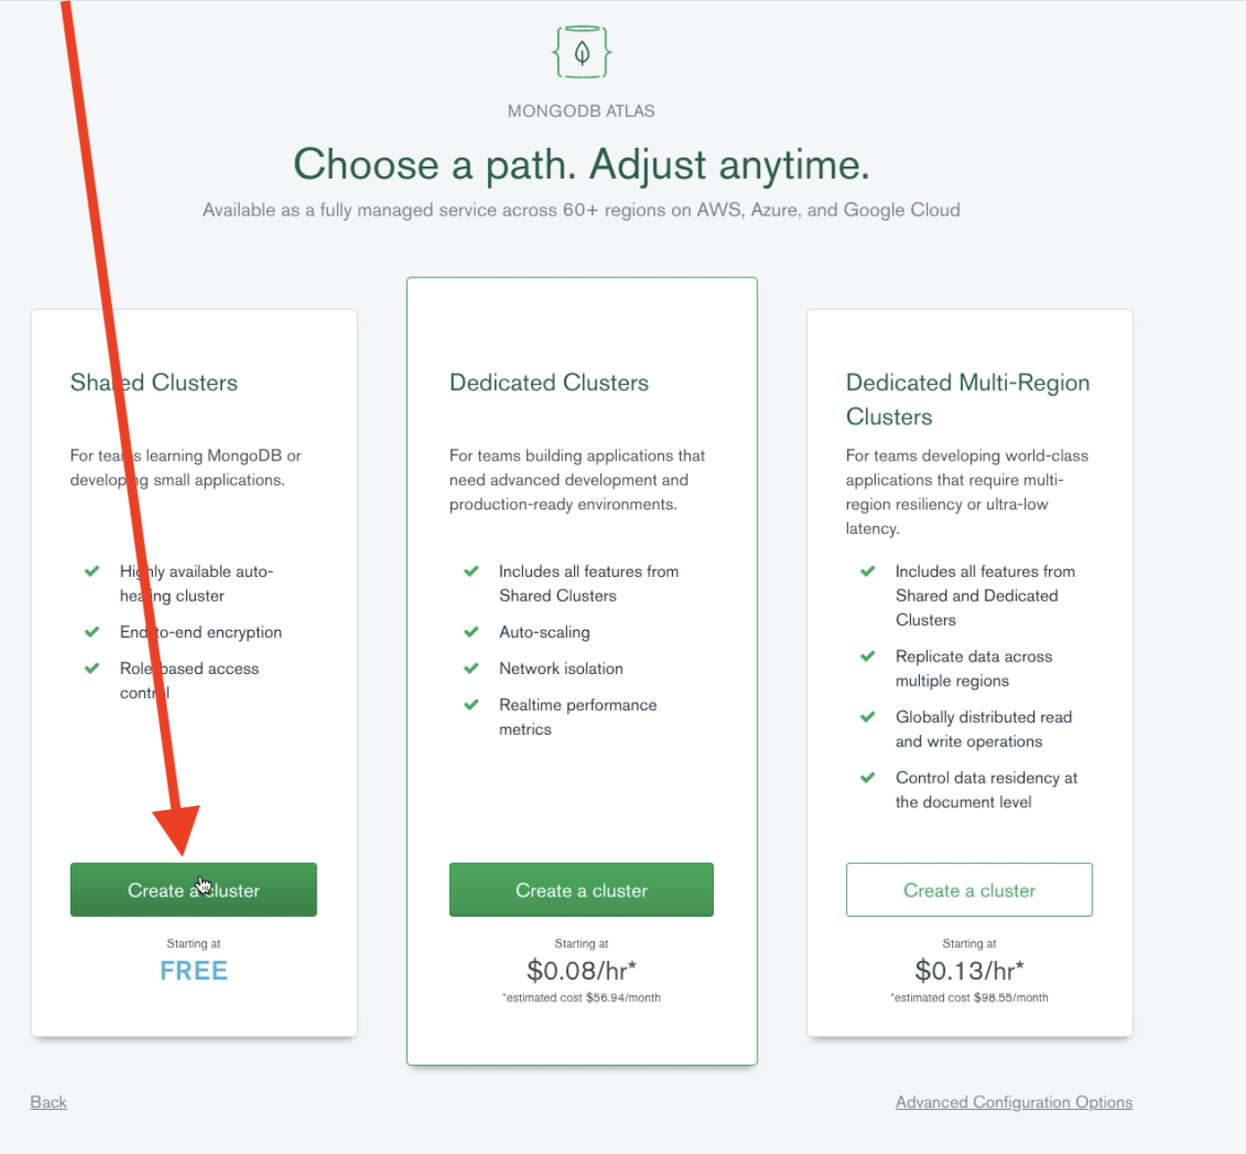
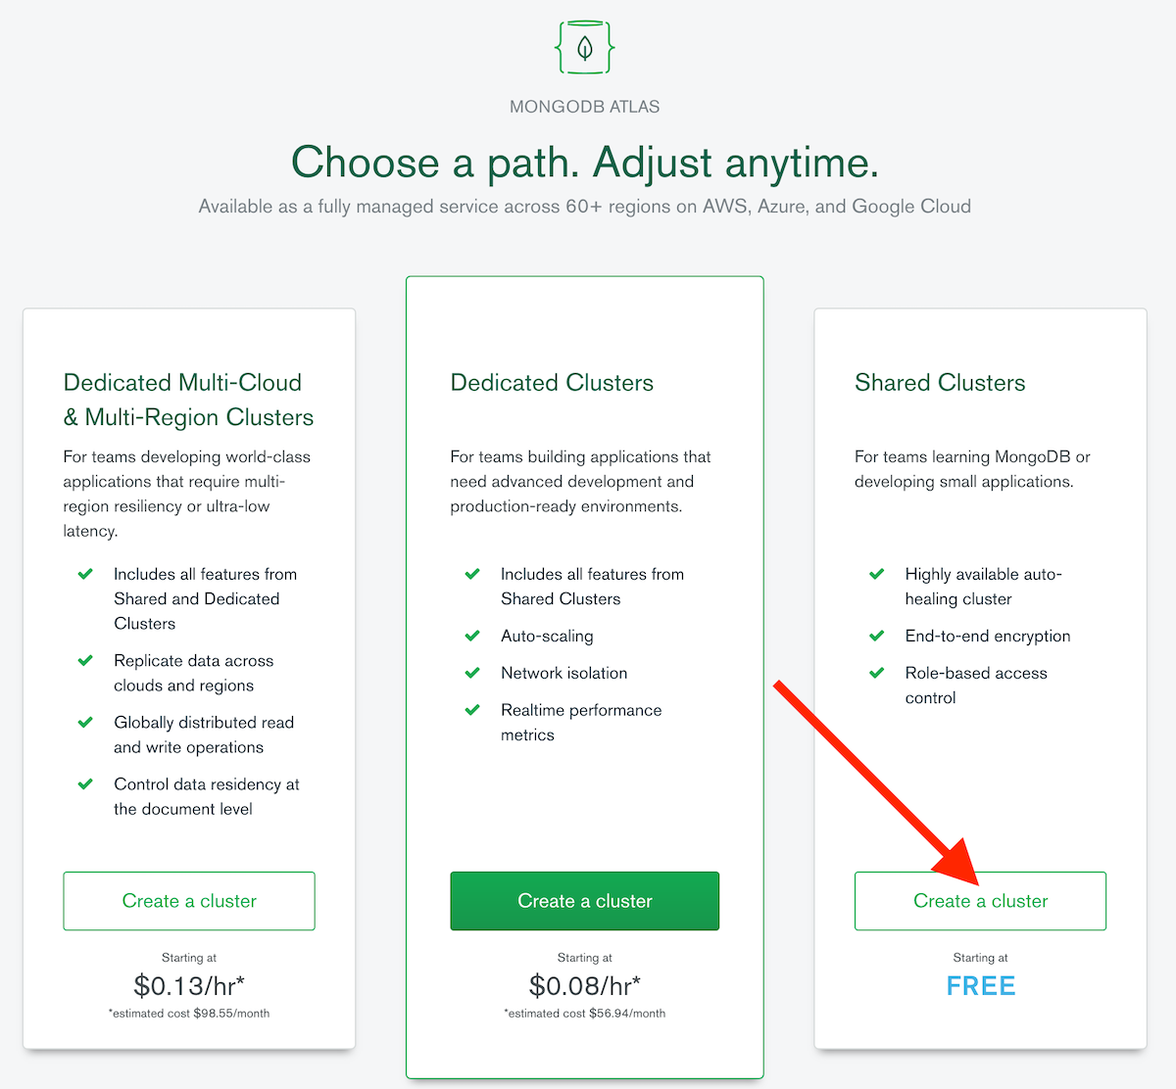
Update setup instructions (#126)
* Update cluster creation instructions

* update: make sure the users copy the template

* fix styling for tripple tick code segments

* update: make code/bash examples more visible

* update: format mongodb shell commands

* update: small visibility fixes

diff --git a/_sass/custom/custom.scss b/_sass/custom/custom.scss
@@ -1,3 +1,19 @@
-.highlight {
+.background {
     background-color:rgba(0, 0, 0, 0.0470588);
+}
+
+// tripple-tick code examples "```bash"
+li [class^="language-"].highlighter-rouge {
+    margin-bottom: 1.5em;
+}
+
+// quotes ">"
+blockquote {
+    background: #f9f9f9;
+    border-left: 10px solid #ccc;
+    margin: 1.5em 10px;
+    padding: 0.5em 10px;
+}
+blockquote p {
+    display: inline;
 }

diff --git a/build/index.html b/build/index.html
@@ -21,7 +21,8 @@ Prerequisites:
 
 Throughout this guide, you will be keeping track of a lot of information. So the first step is to copy and paste the template below into a scratch pad, to keep track of it all.<BR><BR>
 
-TEMPLATE TO COPY AND PASTE:<BR>
+<h3 id="template">TEMPLATE TO COPY AND PASTE</h3>
+
 Project Name:<BR>
 Atlas Cluster Name:<BR>
 Atlas Cluster Admin username:<BR>

diff --git a/_posts/build_fdn/2020-06-09-Data-Import.md b/_posts/build_fdn/2020-06-09-Data-Import.md
@@ -9,16 +9,19 @@ site: build
 Now that you've created your Atlas database, import the sample dataset using the `mongorestore` commandline utility:
 
 1. Get the sample data
-   1.  Get the code from <A HREF="https://github.com/WildAid/o-fish-realm" target="_blank">https://github.com/WildAid/o-fish-realm</A><BR>
-   `git clone https://github.com/WildAid/o-fish-realm.git`<BR>OR<BR><A HREF="https://github.com/WildAid/o-fish-realm/archive/main.zip">Download and extract the code</A><BR><BR>
-   1. Go into the o-fish-realm directory, "o-fish-realm" if you did a git clone in the previous step, or "o-fish-realm-main" if you downloaded and extracted the code. The directory should have at least these 3 items:<BR>
-`README.md WildAidDemo WildAidSampleBackup`<BR>
 
+   1. Get the code from <A HREF="https://github.com/WildAid/o-fish-realm" target="_blank">https://github.com/WildAid/o-fish-realm</A>
+   ```bash
+   git clone https://github.com/WildAid/o-fish-realm.git
+   ```
+   OR<BR><A HREF="https://github.com/WildAid/o-fish-realm/archive/main.zip">Download and extract the code</A><BR><BR>
+   1. Go into the o-fish-realm directory, "o-fish-realm" if you did a git clone in the previous step, or "o-fish-realm-main" if you downloaded and extracted the code. The directory should have at least these 3 items: **README.md**, **WildAidDemo**, and **WildAidSampleBackup**.
+   
    1. Note the path to the directory WildAidSampleBackup. Put it in the "Path to sample data" section of the template. <BR>
 Example: `/Users/sheeri/o-fish-realm/WildAidSampleBackup`<BR><BR>
-   1. Note the path to the directory WildAidDemo, and put it in the "Path to Realm code" section of the template.<BR>
-Example: `/Users/sheeri/o-fish-realm/WildAidDemo`<BR><BR>
-
+1. Note the path to the directory WildAidDemo, and put it in the "Path to Realm code" section of the template.<BR>
+   Example: `/Users/sheeri/o-fish-realm/WildAidDemo`<BR><BR>
+   
 1. Get connection string
    1. Click CONNECT in the cluster itself (or as previously on the view that shows you all the clusters for the project):
 <img src="/assets/images/CONNECT.png" style="border:1px solid black" width="100%"><BR><BR>
@@ -29,12 +32,24 @@ Example: `/Users/sheeri/o-fish-realm/WildAidDemo`<BR><BR>
    1. Click "Close"<BR><BR>
    1. Paste the connection string into the "Atlas Cluster connection string" in your template.<BR><BR>
 
-1. In a terminal window, use the mongorestore utility to import the data you got in the first step. use the `mongorestore` utility and the "Path to sample data", and the "Atlas Cluster connection string". Modify the connection string - just after `mongodb+srv://` you should put in the "Atlas Cluster Admin username" from the template, followed by @ and then the rest of the mongodb+srv link. The whole string, replace what's in all capital letters:<BR>
-   - `mongorestore --drop --uri "mongodb+srv://USERNAME@REST_OF_CONNECTION_STRING" PATH_TO_BACKUP`<BR>
-Example:<BR>
-   - `mongorestore --drop --uri "mongodb+srv://admin@ofish-xxxxx.mongodb.net/" /Users/sheeri/wildaid_demo/o-fish-realm/WildAidSampleBackup`<BR>
+1. In a terminal window, use the mongorestore utility to import the data you got in the first step. use the `mongorestore` utility and the "Path to sample data", and the "Atlas Cluster connection string". Modify the connection string - just after `mongodb+srv://` you should put in the "Atlas Cluster Admin username" from the template, followed by @ and then the rest of the mongodb+srv link. The whole string, replace what's in all capital letters:
+   ```bash
+mongorestore --drop --uri "mongodb+srv://USERNAME@REST_OF_CONNECTION_STRING" PATH_TO_BACKUP
+   ```
+
+   Example:
+   ```bash
+mongorestore --drop --uri "mongodb+srv://admin@ofish-xxxxx.mongodb.net/" /Users/sheeri/wildaid_demo/o-fish-realm/WildAidSampleBackup
+   ```
+   
+   **Note**, if you run the `mongorestore` command from inside of the **o-fish-realm** directory, then you can use a relative path for **PATH_TO_BACKUP**, like this:
+   ```bash
+mongorestore --drop --uri "mongodb+srv://admin@ofish-xxxxx.mongodb.net/" ./WildAidSampleBackup
+   ```
+   
    When it is successful, you will see a message like:<BR>
-   `6117 document(s) restored successfully. 0 document(s) failed to restore.`<BR><BR>
+   *"6117 document(s) restored successfully. 0 document(s) failed to restore."*<BR><BR>
+
 
 1. Verify with Data Explorer
    1. Go to <code>Collections</code> in the Atlas UI:

diff --git a/_posts/build_charts/2020-06-12-Create-Compliance2.md b/_posts/build_charts/2020-06-12-Create-Compliance2.md
@@ -22,21 +22,23 @@ On this page, you will make the Compliance Rate chart - shown as the percentage 
 1. Choose a Chart subtype of Number:
 <img src="/assets/images/NumberChart.png" alt="Picking the number subtype to represent the data." style="border:1px solid black" width="100%"><BR><BR>
 
-1. We need to calculate the percentage of a subset of data as compared to the total amount of data, which we cannot do with a calculated field. However, we can do this with an aggregation, which we can paste into the Query field, and then select "Apply":<BR><BR>
-`[{$group: { _id: null, total: { $sum: 1 },` <BR>
-  `justCompliant: { $sum: { $cond: { ` <BR>
-        `'if': {$and: [ ` <BR>
-          `{$ifNull: ['$inspection.summary.violations.disposition',0]}, ` <BR>
-          `{$or: [ ` <BR>
-          `{$in: ['Warning','$inspection.summary.violations.disposition']}, ` <BR>
-          `{$in: ['Citation','$inspection.summary.violations.disposition']} ` <BR>
-          `] } ] }, ` <BR>
-        `'then': 0, 'else': 1 ` <BR>
-      `} } }` <BR>
-`}}, {$project: {` <BR>
-  `percentage: { $divide: [ '$justCompliant', '$total' ] },` <BR>
-  `inspection: 1, justCompliant: 1, total: 1` <BR>
-`}}]`<BR>
+1. We need to calculate the percentage of a subset of data as compared to the total amount of data, which we cannot do with a calculated field. However, we can do this with an aggregation, which we can paste into the Query field, and then select "Apply":
+```javascript
+   [{$group: { _id: null, total: { $sum: 1 },
+      justCompliant: { $sum: { $cond: { 
+         'if': {$and: [ 
+            {$ifNull: ['$inspection.summary.violations.disposition',0]}, 
+            {$or: [ 
+            {$in: ['Warning','$inspection.summary.violations.disposition']}, 
+            {$in: ['Citation','$inspection.summary.violations.disposition']} 
+         ] } ] }, 
+         'then': 0, 'else': 1 
+      } } }
+   }}, {$project: {
+      percentage: { $divide: [ '$justCompliant', '$total' ] },
+      inspection: 1, justCompliant: 1, total: 1
+   }}]
+```
 <img src="/assets/images/ComplianceRateQuery.png" alt="How to apply the aggregation after pasting it into the query field." style="border:1px solid black" width="100%"><BR><BR>
 
 1. You will see your fields have changed to an ID and three numbers - justCompliant, percentage, and total:<BR>
@@ -55,10 +57,9 @@ On this page, you will make the Compliance Rate chart - shown as the percentage 
 <img src="/assets/images/Multiplier.png" alt="Multiplying the simplified decimal by 100." style="border:1px solid black" width="100%"><BR><BR>
 
 1. Toggle the Suffix and set it to be %:<BR>
-<img src="/assets/images/Suffix.png" alt="How to clearly represent the decimal as a percentage." style="border:1px solid black" width="100%"><BR><BR>
-
-And you should see the percentage in the window. Select "Save and Close"
-<img src="/assets/images/SaveClosePercentage.png" alt="Saving the newly created percentage." style="border:1px solid black" width="100%"><BR><BR>
+  <img src="/assets/images/Suffix.png" alt="How to clearly represent the decimal as a percentage." style="border:1px solid black" width="100%"><BR><BR>
+  And you should see the percentage in the window. Select "Save and Close"
+  <img src="/assets/images/SaveClosePercentage.png" alt="Saving the newly created percentage." style="border:1px solid black" width="100%"><BR><BR>
 
 1. On your dashboard, mouse over the chart until you see the ellipses. Select the ellipses and select "Embed Chart":
 <img src="/assets/images/ClickBCEmbedMenu.png" alt="How to access the embeded chart feature." style="border:1px solid black" width="100%"><BR><BR>

diff --git a/_posts/build_charts/2020-06-12-Create-Compliance.md b/_posts/build_charts/2020-06-12-Create-Compliance.md
@@ -38,8 +38,7 @@ And you should see the total number of boarding reports in the window. Select "S
 
 1. Select "Close" to close the "Embed Chart" window.<BR><BR>
 
-1. Paste the Chart ID into your web application's src/config.js file under "boardings-count-chart".<BR><BR><BR><BR>
-
+1. Paste the Chart ID into your web application's src/config.js file under "boardings-count-chart".<BR><BR>
 
 1. Now let's create the "Violations" number. On the Charts Dashboard, mouse over the "Boardings" chart and select the three dots in the corner, then select "Duplicate Chart":<BR><BR>
 <img src="/assets/images/DuplicateBoardings.png" alt="How to create &quotDuplicate Charts;&quot;" style="border:1px solid black" width="70%"><BR><BR>
@@ -48,16 +47,13 @@ And you should see the total number of boarding reports in the window. Select "S
 <img src="/assets/images/ViolationsTitle.png" alt="" style="border:1px solid black" width="100%"><BR><BR>
 
 1. To filter for records that contain citations or warnings, select "Filter":<BR>
-<img src="/assets/images/AddChartFilter.png" alt="" style="border:1px solid black" width="100%"><BR><BR>
-
-Drag inspection -> summary -> violations -> disposition to "+ filter":<BR>
-<img src="/assets/images/DragDisposition.png" alt="How to add &quot;disposition&quot; under Chart Filters" style="border:1px solid black" width="100%"><BR><BR>
-
-Select only Citation and Warning:<BR>
-<img src="/assets/images/ChooseCitationWarning.png" alt="" style="border:1px solid black" width="100%"><BR><BR>
-
-And you should see the total number of boarding reports with violations in the window. Select "Save and Close" in the upper right.
-<img src="/assets/images/CloseSave.png" alt="Total number of boarding reports with violations" style="border:1px solid black" width="100%"><BR><BR>
+    <img src="/assets/images/AddChartFilter.png" alt="" style="border:1px solid black" width="100%"><BR><BR>
+    Drag inspection -> summary -> violations -> disposition to "+ filter":<BR>
+    <img src="/assets/images/DragDisposition.png" alt="How to add &quot;disposition&quot; under Chart Filters" style="border:1px solid black" width="100%"><BR><BR>
+    Select only Citation and Warning:<BR>
+    <img src="/assets/images/ChooseCitationWarning.png" alt="" style="border:1px solid black" width="100%"><BR><BR>
+    And you should see the total number of boarding reports with violations in the window. Select "Save and Close" in the upper right.
+    <img src="/assets/images/CloseSave.png" alt="Total number of boarding reports with violations" style="border:1px solid black" width="100%"><BR><BR>
 
 1. On your dashboard, mouse over the "Violations" chart until you see the ellipses. Select the ellipses and select "Embed Chart":
 <img src="/assets/images/ClickBCEmbedMenu.png" alt="How to select &quot;Embed Chart&quot; for Violations chart" style="border:1px solid black" width="100%"><BR><BR>

diff --git a/_posts/style/2020-10-02-Alt-Text.md b/_posts/style/2020-10-02-Alt-Text.md
@@ -12,7 +12,7 @@ Alt tags should be descriptive, but not overly long. Imagine the image does not 
 
 Here is an example image with its accompanying text:<BR>
 
-<div class="highlight">
+<div class="background">
 <BR>
 You then need to get the code from your new fork. Select the green "Code" button, then select the copy icon to copy the code location:<BR>
 <CENTER><img src="/assets/images/GetCode.png" alt="" align='center' width="80%" style="border:1px solid black" ><BR><BR></CENTER>
@@ -23,7 +23,7 @@ Good Alt text: "How to get the URL to use when checking out the code."<BR><BR>
 
 If you need to, use a broken image on purpose to get an idea of how it feels:
 
-<div class="highlight">
+<div class="background">
 <BR>
 You then need to get the code from your new fork. Select the green "Code" button and select the copy icon to copy the code location:<BR>
 <img src="/assets/images/BROKEN_IMAGE_ON_PURPOSE.png" data-proofer-ignore alt="How to get the URL to use when checking out the code." style="border:1px solid black" ><BR><BR>
@@ -31,7 +31,7 @@ You then need to get the code from your new fork. Select the green "Code" button
 </div>
 
 This technique should illuminate why alt-text like 'fork' or 'image showing what was described' are not ideal:
-<div class="highlight">
+<div class="background">
 <BR>
 You then need to get the code from your new fork. Select the green "Code" button and select the copy icon to copy the code location:<BR>
 <img src="/assets/images/BROKEN_IMAGE_ON_PURPOSE.png" data-proofer-ignore alt="clone" style="border:1px solid black" ><BR><BR>
@@ -39,7 +39,7 @@ You then need to get the code from your new fork. Select the green "Code" button
 </div>
 In the above example, "clone" is not descriptive enough.
 <BR><BR>
-<div class="highlight">
+<div class="background">
 <BR>
 You then need to get the code from your new fork. Select the green "Code" button and select the copy icon to copy the code location:<BR>
 <img src="/assets/images/BROKEN_IMAGE_ON_PURPOSE.png" data-proofer-ignore alt="This image shows a github repository page, with a red arrow pointing to the green 'Code' button and another red arrow pointing to the 'copy' icon." style="border:1px solid black" ><BR><BR>

diff --git a/_posts/build_fdn/2020-06-09-Connect-Realm-With-Data.md b/_posts/build_fdn/2020-06-09-Connect-Realm-With-Data.md
@@ -18,25 +18,32 @@ You have imported your Realm app!  Now, let's create a Realm user...
 1. <A HREF="https://docs.mongodb.com/manual/tutorial/insert-documents/">Insert a new document</A> to the wildaid database. You will be inserting into the User collection using Compass, mongo shell or code studio integration. <BR><BR>
 The User collection does not exist, so you will need to create it in Compass. In mongoshell and your code studio integration, the collection is automatically created. <BR><BR>
 Set the email and realmUserID with the "App Admin user" and "Realm User ID", set the agency to "WildAid" (for testing) and first and last names as appropriate. Here's an example using mongoshell:
-<BR><BR>
-`$ mongo "mongodb+srv://ofish-xxxx.mongodb.net/wildaid" --username admin`<BR>
-`use wildaid;`<BR>
-`db.User.insertOne(`<BR>
-`{"email":"sheeri.cabral@mongodb.com",`<BR>
-`"name": {"first":"Sheeri", "last":"Cabral"},`<BR>
-`"realmUserID": "xxxxxxxxxxxxxxxxxxxxx",`<BR>
-`"agency": {"name":"WildAid", "admin":false},`<BR>
-`"global": {"admin":true}`<BR>
-`})`<BR>
-and here's a template with empty fields for copy/pasting:<BR>
-`use wildaid;`<BR>
-`db.User.insertOne(`<BR>
-`"email":"",`<BR>
-`"name": {"first":"", "last":""},`<BR>
-`"realmUserID": "",`<BR>
-`"agency": {"name":"", "admin":false},`<BR>
-`"global": {"admin":true}`<BR>
-`})`
 
+```bash
+$ mongo "mongodb+srv://ofish-xxxx.mongodb.net/wildaid" --username admin
+```
+
+```javascript
+use wildaid;
+```
+```javascript
+db.User.insertOne(
+  {"email":"sheeri.cabral@mongodb.com",
+  "name": {"first":"Sheeri", "last":"Cabral"},
+  "realmUserID": "xxxxxxxxxxxxxxxxxxxxx",
+  "agency": {"name":"WildAid", "admin":false},
+  "global": {"admin":true}
+})
+```
+and here's a template with empty fields for copy/pasting:<BR>
+```javascript
+db.User.insertOne(
+  "email":"",
+  "name": {"first":"", "last":""},
+  "realmUserID": "",
+  "agency": {"name":"", "admin":false},
+  "global": {"admin":true}
+})
+```
 
 Fantastic!

diff --git a/_includes/build_web.md b/_includes/build_web.md
@@ -1,13 +1,17 @@
 
 <H2>To build and host the web application locally - recommended for sandbox use and testing</H2>
 On commandline run:<BR>
-`npm start`<BR>
-Unless otherwise notified, the site will be hosted at http://localhost:3000 - you can skip the rest of this page and proceed to <A HREF="/web/2020/06/09/Test-Web-App.html">test your changes</A>.
+```bash
+npm start
+```
+Unless otherwise notified, the site will be hosted at <A HREF="http://localhost:3000" target="_blank">http://localhost:3000</A> - you can skip the rest of this page and proceed to <A HREF="/web/2020/06/09/Test-Web-App.html">test your changes</A>.
 
 <H2>To build the web application for hosting in Realm - recommended for a more permanent instance, or repeated testing</H2>
-1. On commandline, run:<BR>
-   `npm run build`<BR>
-   When it completes, a "build" directory will be made, with the following files and "static" directory:<BR>
+1. On commandline, run:
+```bash
+npm run build
+```
+When it completes, a "build" directory will be made, with the following files and "static" directory:<BR>
 `asset-manifest.json`<BR>
 `index.html`<BR>
 `logo192.png`<BR>
@@ -28,6 +32,8 @@ Unless otherwise notified, the site will be hosted at http://localhost:3000 - yo
 1. Make note of the URL on the Hosting page, this is your website! Paste it to the "URL" field in the template<BR>
 <img alt="Where to place the URL in the template" src="/assets/images/URL.png" style="border:1px solid black" width="75%"><BR><BR>
 
-If you have a blue bar that says: "Your site is in the process of being created, which may take up to 15 minutes." then wait until that is gone before <A HREF="/web/2020/06/09/Test-Web-App.html">proceeding to test your changes</A>.
+> If you have a blue bar that says: <BR>
+>   *"Your site is in the process of being created, which may take up to 15 minutes."*<BR>
+> then wait until that is gone before <A HREF="/web/2020/06/09/Test-Web-App.html">proceeding to test your changes</A>.
 
 

diff --git a/_posts/build_fdn/2020-06-09-Setup-Commandline-for-Realm-Import.md b/_posts/build_fdn/2020-06-09-Setup-Commandline-for-Realm-Import.md
@@ -11,12 +11,18 @@ The commandline interface to import the Realm app code is called "realm-cli". We
 1. realm-cli setup
    1. Install realm-cli - follow the instructions for manual install or `npm` install at <A HREF="https://docs.mongodb.com/realm/deploy/realm-cli-reference/" target="_blank">https://docs.mongodb.com/realm/deploy/realm-cli-reference</A><BR><BR>
    1. Connect your commandline with Realm using `realm-cli login` and the values from the template for "API Public Key" and "API Private Key":<BR>
-   - `realm-cli login --api-key="API_Public_Key" --private-api-key="API_Private_Key"`<BR><BR>
-      It has worked when the output is <BR>`you have successfully logged in as PUBLIC_API_KEY`<BR><BR>
+   ```bash
+realm-cli login --api-key="API_Public_Key" --private-api-key="API_Private_Key"
+   ```
+   When successful, you will see this message:<BR>
+   *"You have successfully logged in as PUBLIC_API_KEY"*
 
    1. Use realm-cli to add a secret called "AWS-secret-key". If you are connecting your instance with an external AWS environment, add your AWS secret key as the `--value` in this command. If you are NOT connecting your instance with AWS, you STILL need to run this command but `--value` can be set to any string. <BR>
-   You will put your Realm App ID from the template as the value of --app-id:<BR>
-      `realm-cli secrets add --name=AWS-secret-key --value=my-aws-secret-api-key --app-id=REALM_APP_ID`<BR><BR>
-      It works when the output is <BR>`New secret created: AWS-secret-key`<BR><BR>
+   You will put your Realm App ID from the template as the value of --app-id:
+   ```bash
+   realm-cli secrets add --name=AWS-secret-key --value=my-aws-secret-api-key --app-id=REALM_APP_ID
+   ```
+   It works when the output is:<BR>
+   *"New secret created: AWS-secret-key"*<BR><BR>
 
 Now you are all set up to import the Realm code!

diff --git a/_posts/build_fdn/2020-06-09-Import-Realm-Code.md b/_posts/build_fdn/2020-06-09-Import-Realm-Code.md
@@ -11,13 +11,15 @@ Now it's time to import the Realm code!
 
 1. In the template, you have a field called "Path to Realm code". Go to that directory - you should be inside a directory called WildAidDemo.<BR><BR>
 1. Edit `config.json` change "name" to your "Realm App Name"<BR><BR>
-1. Edit these 2 files: `services/RealmSync/config.json services/mongodb-atlas/config.json`<BR> and change the value of "ClusterName" to your "Atlas Cluster Name"<BR><BR>
+1. Edit these 2 files: `services/RealmSync/config.json`, `services/mongodb-atlas/config.json`<BR> and change the value of "ClusterName" to your "Atlas Cluster Name"<BR><BR>
 1. If you are not using AWS, skip this step. If you are, edit the following files and fill in all the relevant details:<BR>
- `values/awsRegion.json values/destinationEmailAddress.json values/sourceEmailAddress.json`<BR><BR>
+ `values/awsRegion.json`, `values/destinationEmailAddress.json`, `values/sourceEmailAddress.json`<BR><BR>
 1. If you are not using AWS, skip this step. If you are, set accessKeyID and secretAccessKey in the file: <BR>
   `services/AWS/config.json`<BR><BR>
-1. Do the import, confirm with 'y' when prompted to confirm changes. You will paste your Realm App ID into --app-id:<BR>
-  `realm-cli import --strategy=replace --include-dependencies --app-id=REALM_APP_ID` <BR><BR>
+1. Do the import, confirm with 'y' when prompted to confirm changes. You will paste your Realm App ID into --app-id:
+```bash
+realm-cli import --strategy=replace --include-dependencies --app-id=REALM_APP_ID
+```
 1. Verify the code got imported by going to the Realm App and clicking "Functions" on the left-hand side. You should see several functions, as below:
   <img alt="accessing functions and creating the realm app" src="/assets/images/Functions.png" style="border:1px solid black" width="100%"><BR><BR>
 

diff --git a/_posts/build_fdn/2020-06-09-Atlas-Database.md b/_posts/build_fdn/2020-06-09-Atlas-Database.md
@@ -8,6 +8,9 @@ site: build
 
 The first step is to set up the Atlas database - this is the foundation data layer that serve data to the mobile apps, charts, and web apps.
 
+> Throughout this guide, you will need to keep track of a lot of information.<BR>
+> Copy and paste the <A HREF="/build/#template" target="_blank">template</A> into a scratch pad, to keep track of it all.
+
 1. Login to <A HREF="https://cloud.mongodb.com" target="_blank">cloud.mongodb.com</A> - create a free login if needed.<BR><BR>
 1. If needed, create an organization (example: Code For Good). <BR><BR>
 1. Create a project (example: WildAid). Fill in the "Project Name" on the <A HREF="/build">template</A> that you copied to your scratchpad. Case sensitivity matters!<BR><BR>
@@ -23,7 +26,7 @@ and click the green checkmark.<BR><BR>
 <img src="/assets/images/Projects.png" style="border:1px solid black" width="50%" alt="From nav-bar select Projects"><BR><BR>
    1. Click your project name (example: WildAid)
    1. Click Build a Cluster
-   1. Choose a path - choose the FREE Shared Clusters on the left: 
+   1. Choose a path - choose the **FREE** Shared Clusters on the right: 
 <img src="/assets/images/Atlas_Choose_Path.png" style="border:1px solid black" width="100%" alt="Select your plan"><BR><BR>
    1. Choose Cloud Provider and Region
 <img src="/assets/images/Atlas_Cloud_Region.png" style="border:1px solid black" width="100%" alt="aws has selected for cloud provider and region"><BR><BR>

diff --git a/_posts/build_ios/2020-06-11-Build-iOS.md b/_posts/build_ios/2020-06-11-Build-iOS.md
@@ -7,12 +7,18 @@ site: build
 ---
 
 1. Get the code from <A HREF="https://github.com/WildAid/o-fish-ios">https://github.com/WildAid/o-fish-ios</A><BR>
-   `git clone https://github.com/WildAid/o-fish-ios.git`<BR><BR>OR<BR><A HREF="https://github.com/WildAid/o-fish-ios/archive/main.zip">Download and extract the code</A><BR><BR>
+```bash
+git clone https://github.com/WildAid/o-fish-ios.git
+```
+OR<BR><A HREF="https://github.com/WildAid/o-fish-ios/archive/main.zip">Download and extract the code</A><BR><BR>
 1. Do a `pod install` to install any dependencies.<BR>
-To get the latest version of Realm or other packages, you may need to run<BR>`pod install --repo-update`<BR><BR>
+To get the latest version of Realm or other packages, you may need to run
+```bash
+pod install --repo-update`
+```
 1. Add the Realm App ID (from your template) to `o-fish-ios/LocalConstants.swift`<BR>
 `realm_app_id=your_app_id`<BR><BR>
-1. `open o-fish-ios.xcworkspace` in the o-fish-ios directory, or otherwise open the code in Xcode.app.<BR><BR>
+1. Open `o-fish-ios.xcworkspace` in the o-fish-ios directory, or otherwise open the code in Xcode.app.<BR><BR>
 1. Select the "Product" menu, then the "Destination" item and choose either:
   - Your physical device, if you have it connected
   - The simulator you want to run the code on (e.g. iPhone 11), from the "iOS Simulators" submenu
